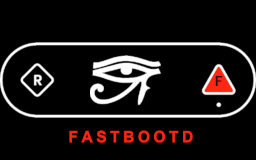
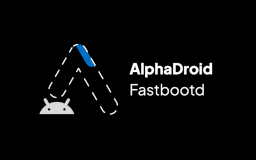
Add AlphaDroid ui

diff --git a/recovery_ui/screen_ui.cpp b/recovery_ui/screen_ui.cpp
@@ -825,7 +825,7 @@ void ScreenRecoveryUI::draw_menu_and_text_buffer_locked(
   int y = margin_height_;
 
   if (menu_) {
-    auto& logo = fastbootd_logo_enabled_ ? fastbootd_logo_ : lineage_logo_;
+    auto& logo = fastbootd_logo_enabled_ ? fastbootd_logo_ : alpha_logo_;
     auto logo_width = gr_get_width(logo.get());
     auto logo_height = gr_get_height(logo.get());
     auto centered_x = ScreenWidth() / 2 - logo_width / 2;
@@ -873,7 +873,7 @@ void ScreenRecoveryUI::draw_menu_and_text_buffer_locked(
 // Draws the battery capacity on the screen. Should only be called with updateMutex locked.
 void ScreenRecoveryUI::draw_battery_capacity_locked() {
   int x;
-  int y = margin_height_ + gr_get_height(lineage_logo_.get());
+  int y = margin_height_ + gr_get_height(alpha_logo_.get());
   int icon_x, icon_y, icon_h, icon_w;
 
   if (is_battery_less) return;
@@ -1183,10 +1183,10 @@ bool ScreenRecoveryUI::Init(const std::string& locale) {
   back_icon_sel_ = LoadBitmap("ic_back_sel");
   if (android::base::GetBoolProperty("ro.boot.dynamic_partitions", false) ||
       android::base::GetBoolProperty("ro.fastbootd.available", false)) {
-    lineage_logo_ = LoadBitmap("logo_image_switch");
+    alpha_logo_ = LoadBitmap("logo_image_switch");
     fastbootd_logo_ = LoadBitmap("fastbootd");
   } else {
-    lineage_logo_ = LoadBitmap("logo_image");
+    alpha_logo_ = LoadBitmap("logo_image");
   }
 
   // Background text for "installing_update" could be "installing update" or
@@ -1521,8 +1521,8 @@ int ScreenRecoveryUI::SelectMenu(const Point& p) {
   if (menu_) {
     if (!menu_->IsMain()) {
       // Back arrow hitbox
-      const static int logo_width = gr_get_width(lineage_logo_.get());
-      const static int logo_height = gr_get_height(lineage_logo_.get());
+      const static int logo_width = gr_get_width(alpha_logo_.get());
+      const static int logo_height = gr_get_height(alpha_logo_.get());
       const static int icon_w = gr_get_width(back_icon_.get());
       const static int icon_h = gr_get_height(back_icon_.get());
       const static int centered_x = ScreenWidth() / 2 - logo_width / 2;

diff --git a/recovery_ui/include/recovery_ui/screen_ui.h b/recovery_ui/include/recovery_ui/screen_ui.h
@@ -466,7 +466,7 @@ class ScreenRecoveryUI : public RecoveryUI, public DrawInterface {
   std::unique_ptr<GRSurface> wipe_data_confirmation_text_;
   std::unique_ptr<GRSurface> wipe_data_menu_header_text_;
 
-  std::unique_ptr<GRSurface> lineage_logo_;
+  std::unique_ptr<GRSurface> alpha_logo_;
   std::unique_ptr<GRSurface> back_icon_;
   std::unique_ptr<GRSurface> back_icon_sel_;
   std::unique_ptr<GRSurface> fastbootd_logo_;
